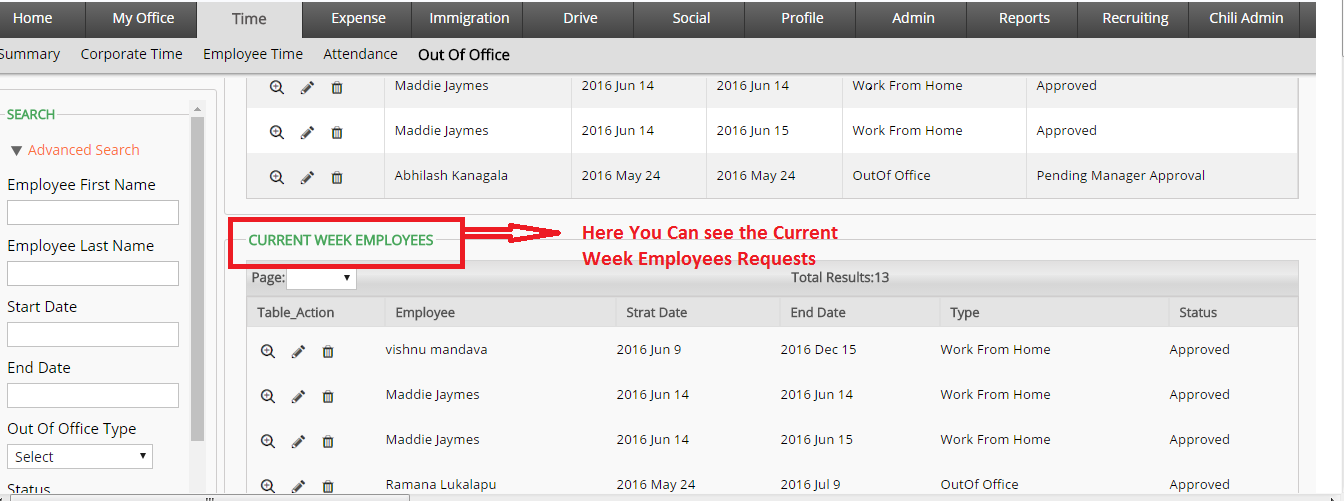
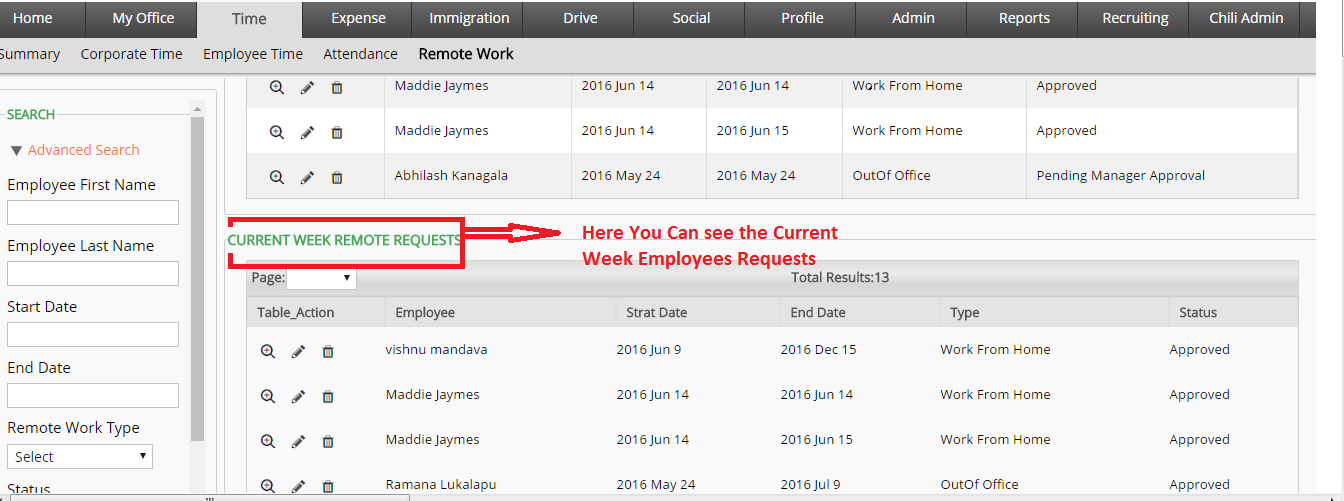
changed the wording from "Work From Home" to "Remote Work" in documentation

Changed region(s): [[0.1562, 0.4491, 0.3438, 0.509], [0.0, 0.8383, 0.125, 0.8683], [0.3125, 0.0898, 0.4062, 0.1198]]

diff --git a/office-master/office-doc/src/site/markdown/office/timesheets/OutOfOffice/submit-out-of-office-request.md b/office-master/office-doc/src/site/markdown/office/timesheets/OutOfOffice/submit-out-of-office-request.md
@@ -1,10 +1,10 @@
-Work From Home
+Remote Work Request
 ------------
-### Submitting Work From Home Request.
+### Submitting Remote Work Request.
 - [Login to Portal](../../../office/forgot-password.html "Login")
-- **Navigate to Time  Out Of Office --> Click On Create Out Of Office Request**. Fill the details and submit.
+- **Navigate to Time  Remote Work --> Click On Create Remote Work Request**. Fill the details and submit.
    - Follow the steps below when submitting an Out of Office or Work From Home request.
-       1. On the form, Out of Office Type, select either Out Of Office or Work From Home.
+       1. On the form, Remote Work Type, select either Out Of Office or Work From Home.
        2. Only corporate employees can submit either of the two types of requests.
        3. For recurring time requests, check the box next to “Recurring Request?”
        4. Employees seeking either Recurring time or Work For Partial time can enter the details in Time Information field; otherwise, it is not necessary to enter anything into the Time Information field.
@@ -14,7 +14,7 @@ Work From Home
            - For recurring requests, enter the day of the week and the time period for those days.
 - The Request will be send to your **Reports_To** manager for approval, if you wants to know your **Reports_To** Manager goto  **Profile > Contacts > Company Contacts**.
 - Based on the decision a Approval or Rejection email will be sent to you accordingly.
-How to Create Work From Home Request.
+How to Create Remote Work Request.
 ----
 ![alt text](../../../images/timesheets/outofoffice/create-ooo-request.png "Out Of Office")
 
@@ -22,10 +22,10 @@ An Email notification will sent to notified employee, if you notify any employee
 ----
 ![alt text](../../../images/timesheets/outofoffice/create-notification.png "Out Of Office")
 
-Update Work From Home Request
+Update Remote Work Request
 ----
-- [Update Work From Home Request information](../../../office/timesheets/OutOfOffice/update-outofoffice-request.html "Update Out Of Office Request")
+- [Update Remote Request information](../../../office/timesheets/OutOfOffice/update-outofoffice-request.html "Update Out Of Office Request")
 
-You can also see the **Current Week Employees** requests which are approved by your reports_to manager in your Out Of Office tab.
+You can also see the **Current Week Remote Requests** in your Remote Work tab, those who are working on the current week.
 ----
 ![alt text](../../../images/timesheets/outofoffice/current-week-employees.png "Out Of Office")

diff --git a/office-master/office-doc/src/site/markdown/office/timesheets/OutOfOffice/out-of-office-process.md b/office-master/office-doc/src/site/markdown/office/timesheets/OutOfOffice/out-of-office-process.md
@@ -1,4 +1,4 @@
-Work From Home request Process
+Remote Work Request Process
 -----
 
 - When an employee submits a request, it creates a task for that employee’s Reports_To manager.
@@ -7,16 +7,16 @@ Work From Home request Process
 - The Reports_To manager task will be approved or rejected within 48 hours.
 - The employee receives email regarding the status, and the entry in the Status box is changed to Approved or Rejected.
 - If the approval or rejection action does not occur within the 48 hours, the manager will receive an email notification regarding the request.
-- HR Admin has search capability to view all Out of Office requests.
+- HR Admin has search capability to view all Remote Work requests.
 - The Reports_To manager has search capability for only those employees who are direct reports or otherwise under that manager.
 
-Work From Home Process Task
+Remote Work Request Process Task
 ----
 ![alt text](../../../images/timesheets/outofoffice/ooo-process.png "Out Of Office")
 
-Work From Home Search Process
+Remote Work Request Search Process
 ----
-- **HR Admin able to search the requests based on employee name, Start date and End dates, OutOf Office type, and Status**.
+- **HR Admin able to search the requests based on employee name, Start date and End dates, Remote Work type, and Status**.
 ![alt text](../../../images/timesheets/outofoffice/search-requests.png "Out Of Office")
 
 Comments

diff --git a/office-master/office-doc/src/site/markdown/office/timesheets/OutOfOffice/update-outofoffice-request.md b/office-master/office-doc/src/site/markdown/office/timesheets/OutOfOffice/update-outofoffice-request.md
@@ -1,4 +1,4 @@
-Update Work From Home Request
+Update Remote Work Request
 -----
 
  - If there is **any change** in the start/end dates or time etc.. you can update the details by clicking on **Update** option. 
@@ -6,7 +6,7 @@ Update Work From Home Request
 
 Update Request
 -----
-**Navigate to Time --> Out Of Office --> click on Update button**
+**Navigate to Time --> Remote Work --> click on Update button** for which request you want to update.
 ![alt text](../../../images/timesheets/outofoffice/update-ooo-request.png "Out Of Office")
 ![alt text](../../../images/timesheets/outofoffice/update-ooo-request2.png "Out Of Office")
 **While Update the Request if any employee is notified then the Request updated email will sent to the notified employee**
